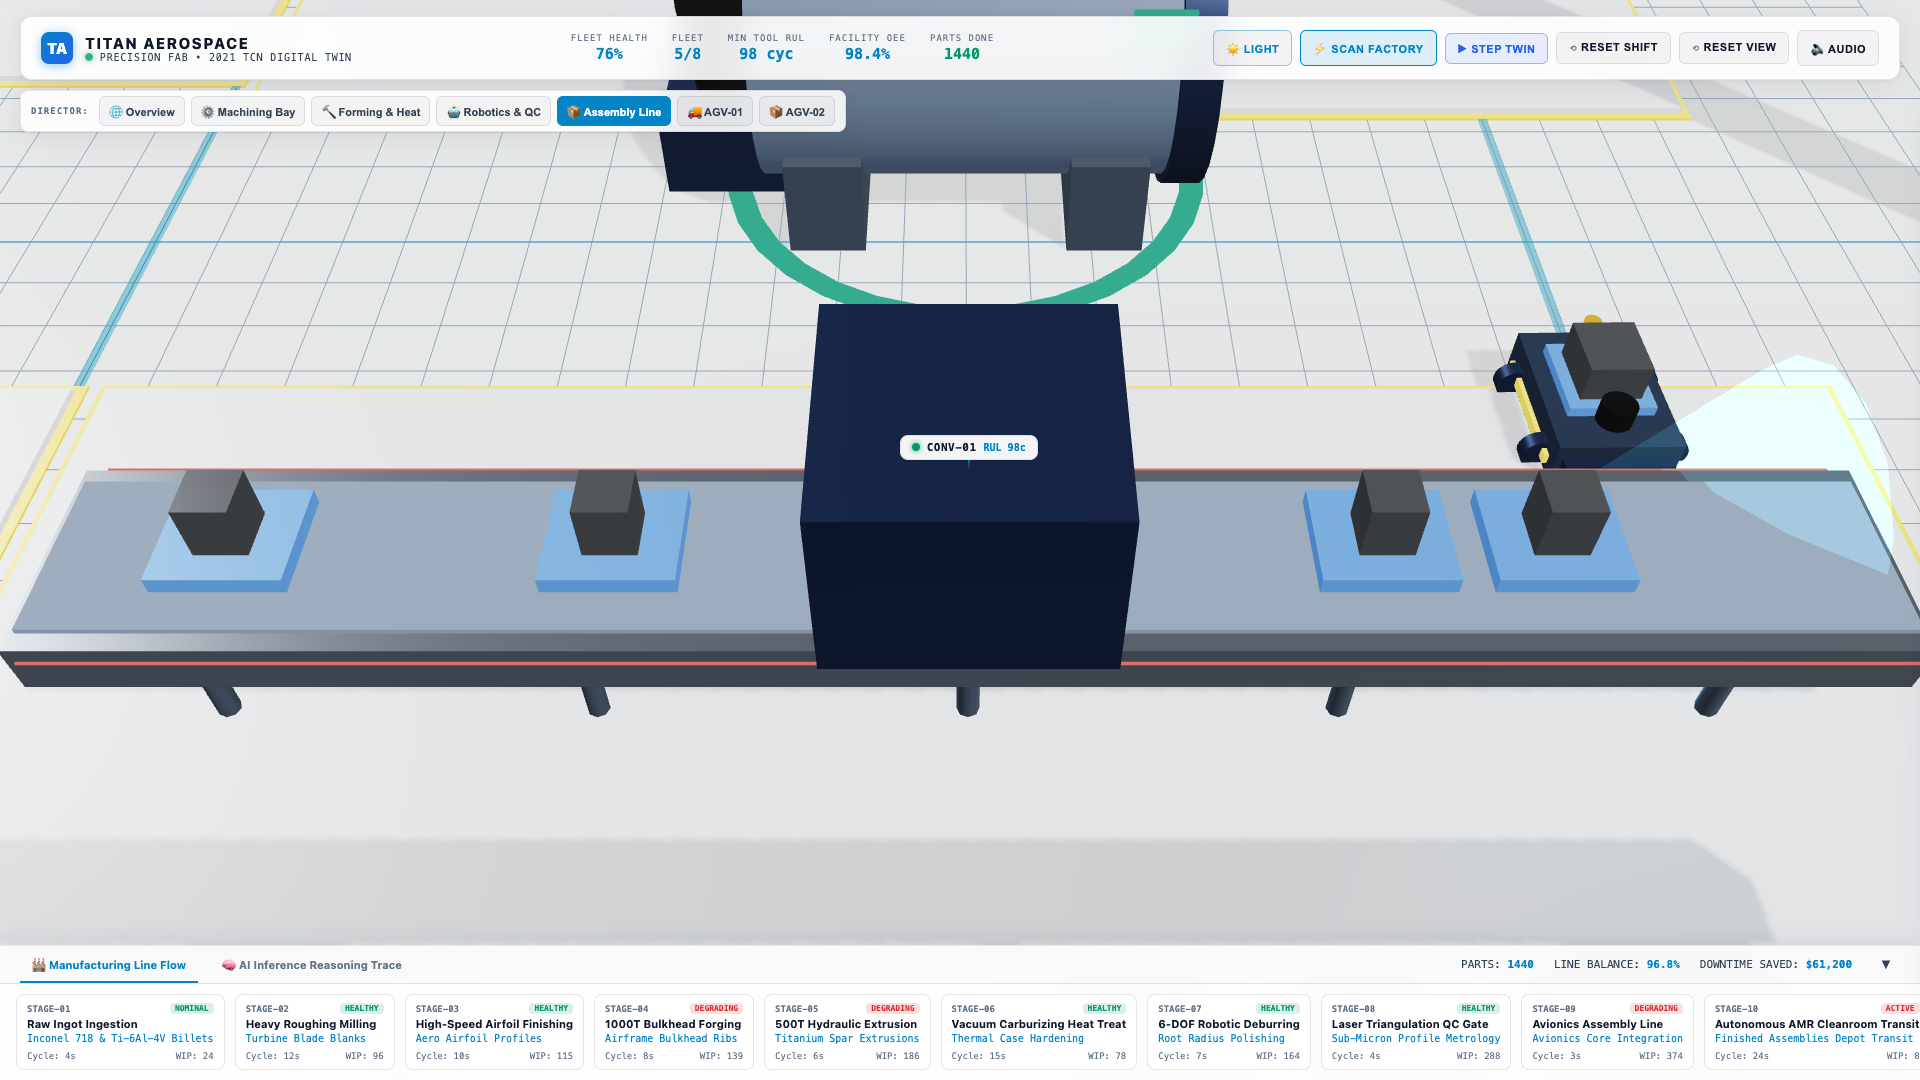
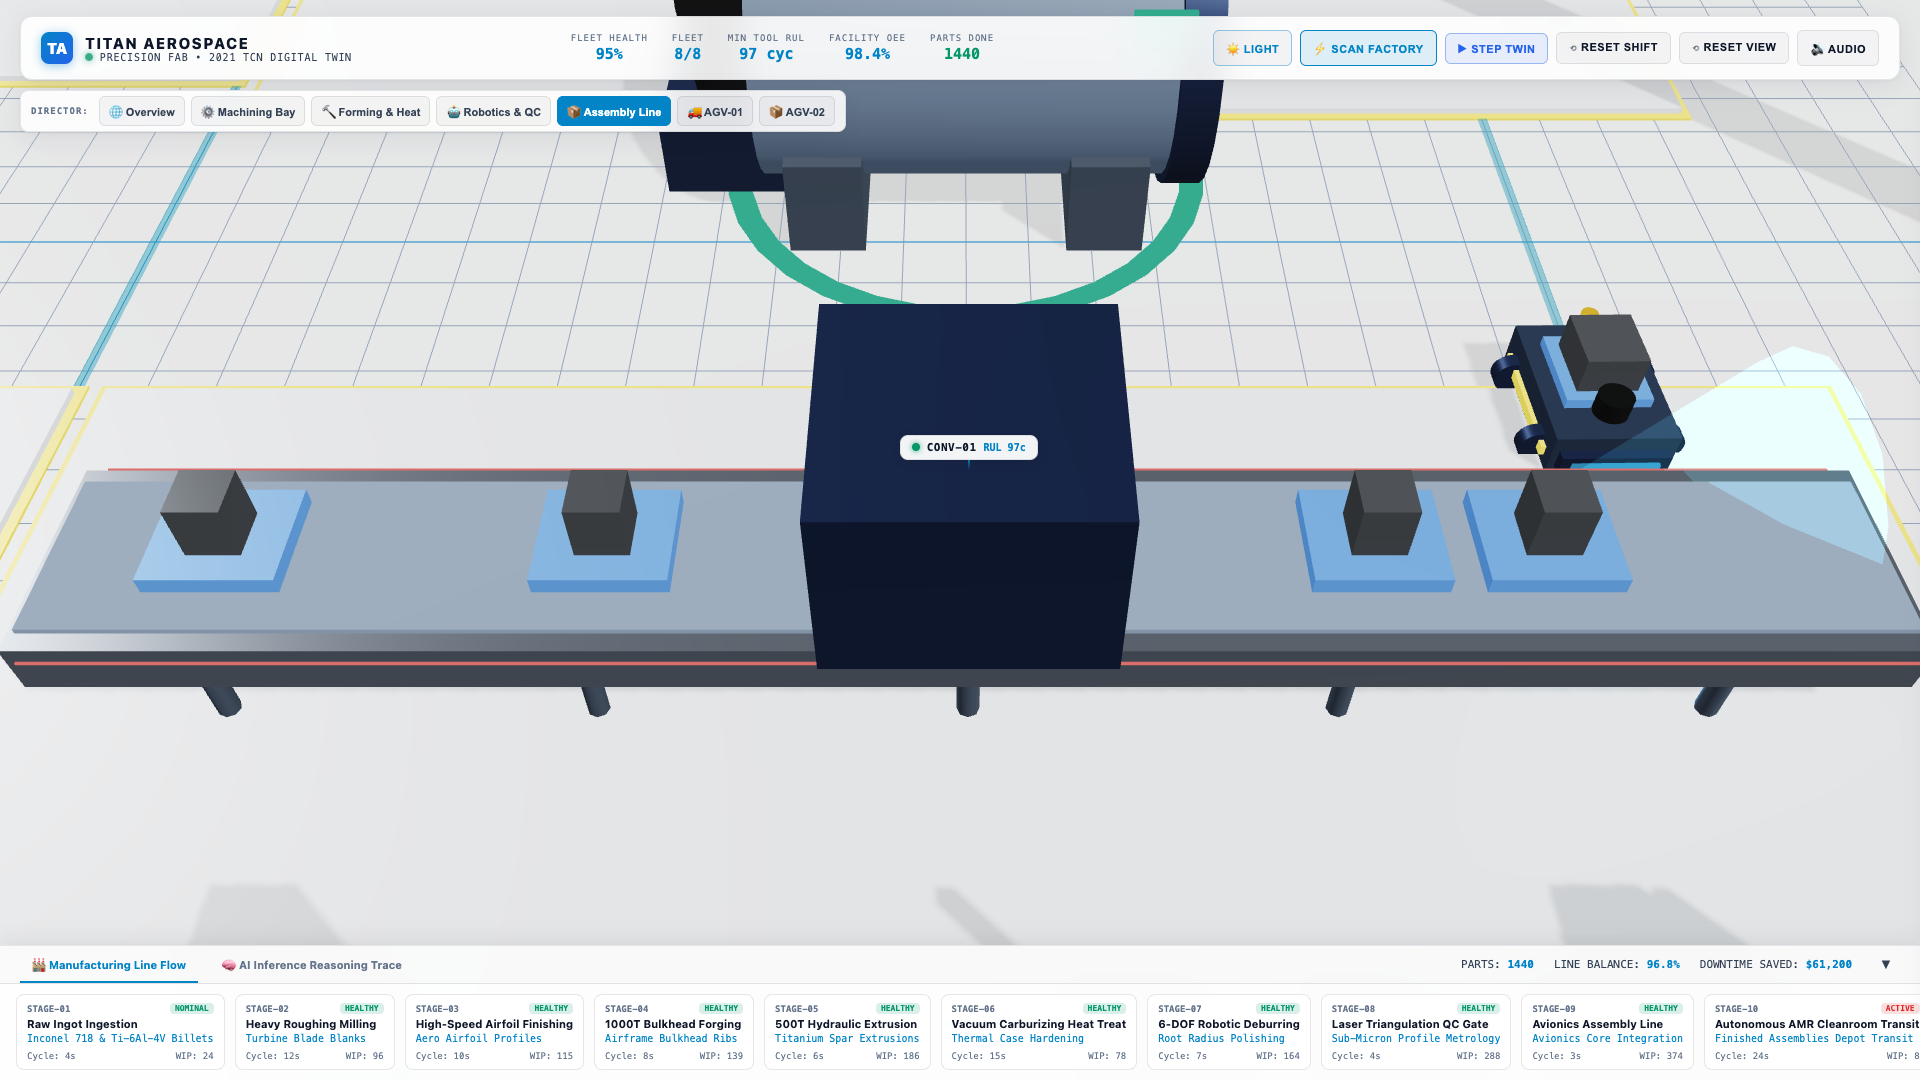
fix(ui): remove overhead yellow crane and suspended workpiece to open cleanroom ceiling

diff --git a/web/js/models.js b/web/js/models.js
@@ -19,7 +19,6 @@ export const MAT = {
   hazardYellow: new THREE.MeshStandardMaterial({ color: 0xfacc15, roughness: 0.35, metalness: 0.2 }),
   hazardDark: new THREE.MeshStandardMaterial({ color: 0x0f172a, roughness: 0.8 }),
   structuralSteel: new THREE.MeshStandardMaterial({ color: 0x475569, roughness: 0.35, metalness: 0.75 }),
-  craneYellow: new THREE.MeshStandardMaterial({ color: 0xeab308, roughness: 0.35, metalness: 0.35 }),
   safetyRail: new THREE.MeshStandardMaterial({ color: 0xf59e0b, roughness: 0.3, metalness: 0.5 }),
 
   // High-Bay Warehouse Racking (ASRS)
@@ -214,10 +213,6 @@ export function createFactoryFloor(scene) {
   // DUAL AMR NAVIGATION CORRIDORS
   createDualCorridorPaths(group);
 
-  // OVERHEAD HEAVY INDUSTRIAL GANTRY CRANE
-  const gantryGroup = createTraversingGantryCrane(group);
-  group.gantryCrane = gantryGroup;
-
   scene.add(group);
   return group;
 }
@@ -296,62 +291,6 @@ function createDualCorridorPaths(parentGroup) {
   });
 
   parentGroup.add(corridorGroup);
-}
-
-function createTraversingGantryCrane(parentGroup) {
-  const gantryRoot = new THREE.Group();
-
-  const runwayGeo = new THREE.BoxGeometry(60, 0.8, 0.8);
-  const rearRunway = new THREE.Mesh(runwayGeo, MAT.craneYellow);
-  rearRunway.position.set(0, 13.5, -20);
-  rearRunway.castShadow = true;
-  gantryRoot.add(rearRunway);
-
-  const frontRunway = new THREE.Mesh(runwayGeo, MAT.craneYellow);
-  frontRunway.position.set(0, 13.5, 20);
-  frontRunway.castShadow = true;
-  gantryRoot.add(frontRunway);
-
-  const bridge = new THREE.Group();
-  bridge.position.set(0, 13.8, 0);
-
-  const girderGeo = new THREE.BoxGeometry(0.8, 1.0, 40.0);
-  const girder1 = new THREE.Mesh(girderGeo, MAT.craneYellow);
-  girder1.position.x = -0.7;
-  girder1.castShadow = true;
-  bridge.add(girder1);
-
-  const girder2 = new THREE.Mesh(girderGeo, MAT.craneYellow);
-  girder2.position.x = 0.7;
-  girder2.castShadow = true;
-  bridge.add(girder2);
-
-  const trolleyGroup = new THREE.Group();
-  trolleyGroup.position.set(0, 0.8, -6);
-
-  const hoistGeo = new THREE.BoxGeometry(2.0, 1.2, 2.0);
-  const hoist = new THREE.Mesh(hoistGeo, MAT.machineDark);
-  trolleyGroup.add(hoist);
-
-  const cableGeo = new THREE.CylinderGeometry(0.04, 0.04, 4.5);
-  const cable = new THREE.Mesh(cableGeo, MAT.steelChrome);
-  cable.position.set(0, -2.8, 0);
-  trolleyGroup.add(cable);
-
-  const ringGeo = new THREE.TorusGeometry(1.2, 0.2, 12, 32);
-  const ringPayload = new THREE.Mesh(ringGeo, MAT.workpieceAlloy);
-  ringPayload.rotation.x = Math.PI / 2;
-  ringPayload.position.set(0, -5.8, 0);
-  trolleyGroup.add(ringPayload);
-
-  bridge.add(trolleyGroup);
-  gantryRoot.add(bridge);
-
-  gantryRoot.bridge = bridge;
-  gantryRoot.trolley = trolleyGroup;
-  parentGroup.add(gantryRoot);
-
-  return gantryRoot;
 }
 
 /**

diff --git a/web/js/scene.js b/web/js/scene.js
@@ -377,14 +377,7 @@ function animate(time) {
   }
   controls.update();
 
-  // 2. Traversing Gantry Crane Animation
-  if (factoryFloor && factoryFloor.gantryCrane) {
-    const crane = factoryFloor.gantryCrane;
-    if (crane.bridge) crane.bridge.position.z = Math.sin(t * 0.25) * 12;
-    if (crane.trolley) crane.trolley.position.x = Math.cos(t * 0.4) * 16;
-  }
-
-  // 3. CNC-01 Animation
+  // 2. CNC-01 Animation
   const cnc1 = machines.get("CNC-01");
   if (cnc1 && cnc1.toolCarriage) {
     cnc1.toolCarriage.position.x = Math.sin(t * 2.2) * 0.8;

diff --git a/pr_body.md b/pr_body.md
@@ -10,7 +10,7 @@
 | 🌐 **1. Executive Cleanroom Mega-Factory (Overview)** | ⚙ **2. Bay 1: CNC Machining Centers** |
 | :---: | :---: |
 | ![01_cleanroom_mega_factory_overview](https://raw.githubusercontent.com/vishnu-0011/digital-twin-copilot/feat/3d-strategy-game-ui/docs/screenshots/01_cleanroom_mega_factory_overview.png) | ![02_bay1_cnc_machining_centers](https://raw.githubusercontent.com/vishnu-0011/digital-twin-copilot/feat/3d-strategy-game-ui/docs/screenshots/02_bay1_cnc_machining_centers.png) |
-| *Full 64m × 48m cleanroom epoxy slab with 8 workcells across 4 bays, traversing yellow gantry crane, and 10-stage pipeline ribbon.* | *`CNC-01` 5-Axis Heavy Roughing Mill and `CNC-02` High-Speed Airfoil Finishing Center with mist extraction & Siemens 840D.* |
+| *Full 64m × 48m cleanroom epoxy slab with 8 workcells across 4 bays, open unobstructed ceiling, and 10-stage pipeline ribbon.* | *`CNC-01` 5-Axis Heavy Roughing Mill and `CNC-02` High-Speed Airfoil Finishing Center with mist extraction & Siemens 840D.* |
 
 | 🔨 **3. Bay 2: Heavy Forming & Thermal Treatment** | 🤖 **4. Bay 3: Robotics & Quality Control** |
 | :---: | :---: |

diff --git a/README.md b/README.md
@@ -17,7 +17,7 @@
 Below are live screenshots of the hardware-accelerated 3D operations center captured directly from the running WebGL simulation across multiple camera angles and operational states:
 
 ### 1. 🌐 Global Factory Overview (Executive Cleanroom Mega-Factory)
-*Full plant overview featuring an expanded 64m × 48m polished white epoxy cleanroom floor, multi-tier High-Bay Storage Racks (ASRS), dynamically traversing overhead gantry crane, 8 specialized workcells across 4 zoned production bays, floating screen-space holographic telemetry badges, and the live 10-stage manufacturing line flow ribbon.*
+*Full plant overview featuring an expanded 64m × 48m polished white epoxy cleanroom floor, multi-tier High-Bay Storage Racks (ASRS), perimeter structural columns, 8 specialized workcells across 4 zoned production bays, floating screen-space holographic telemetry badges, and the live 10-stage manufacturing line flow ribbon.*
 ![Global Cleanroom Factory Overview](docs/screenshots/01_cleanroom_mega_factory_overview.png)
 
 ---
